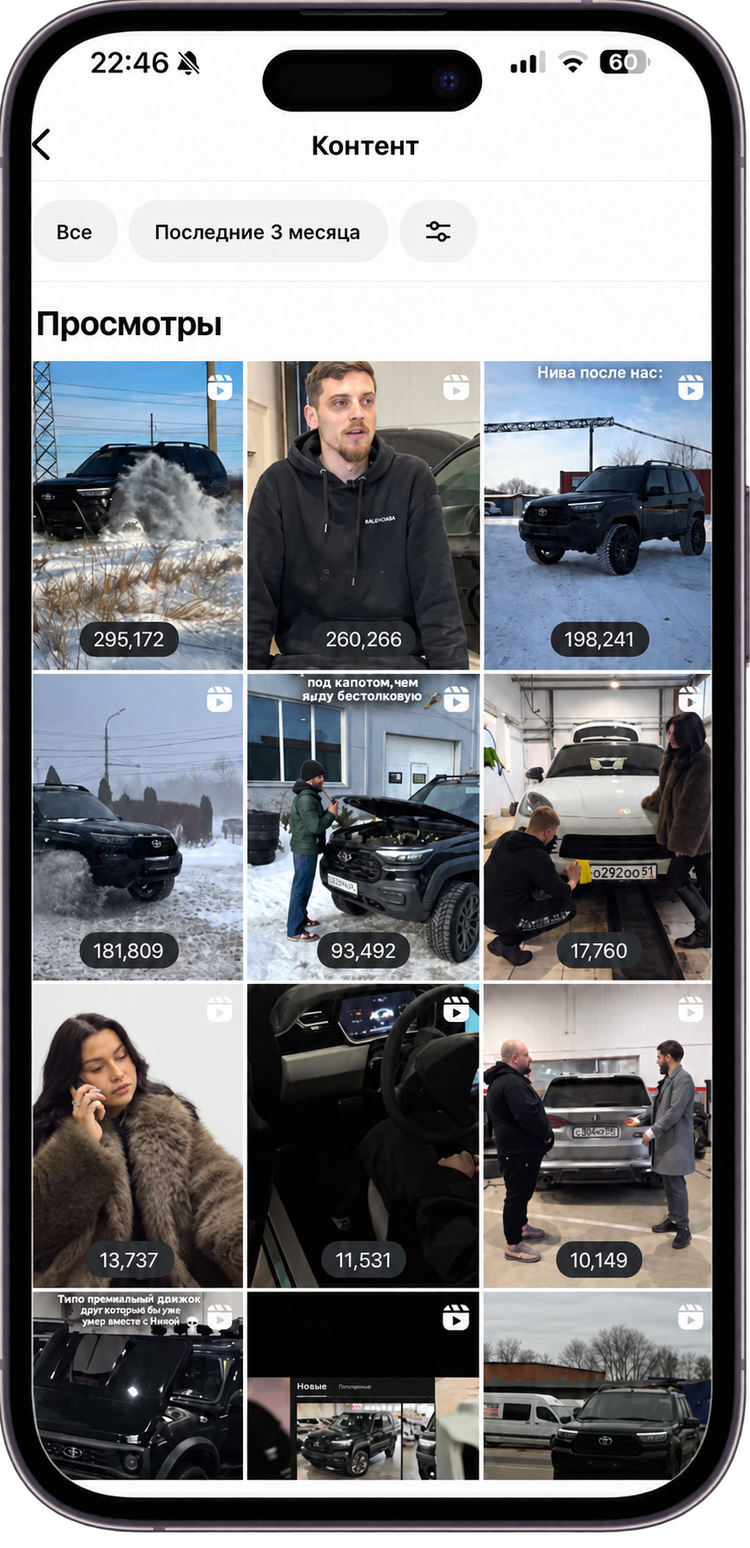
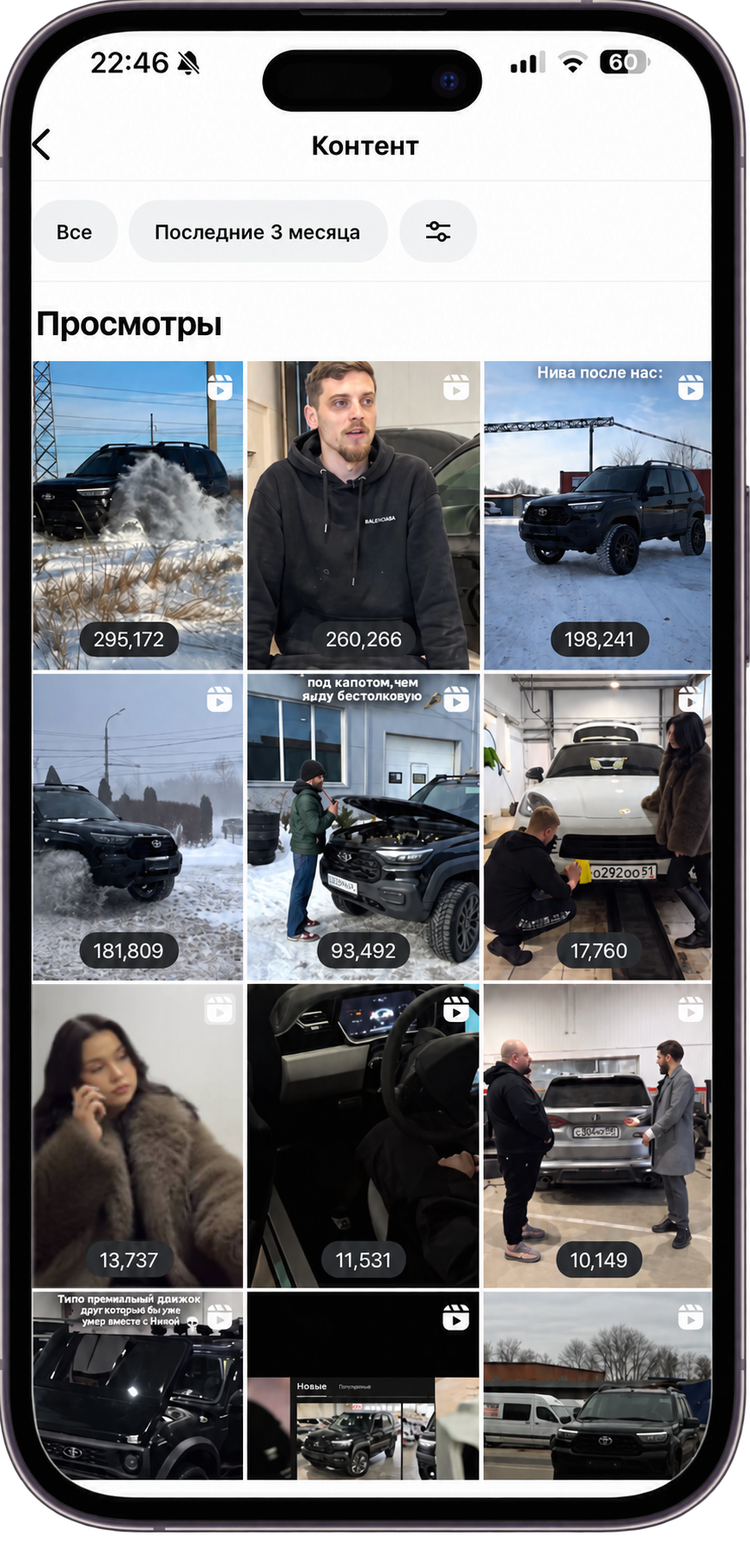
upd img

Changed region(s): [[0.0309, 0.6219, 0.3402, 0.8395]]

diff --git a/index.html b/index.html
@@ -54,7 +54,7 @@
     <figcaption><h4>Примеры Reels</h4><p>Просмотры роликов · последние 3 месяца</p></figcaption>
     <img src="assets/prepared/reels-approved.webp" width="873" height="1801" loading="lazy" decoding="async" alt="Примеры Reels автосервиса и счётчики просмотров"/>
   </figure>
-  <a class="stat-sheet media-card" data-stat="auto" href="assets/prepared/auto-views.webp" aria-haspopup="dialog">
+  <a class="stat-sheet media-card" data-stat="auto" href="assets/prepared/auto-views-screen.webp" aria-haspopup="dialog">
     <span class="stat-header">Результаты <span class="stat-open">Подробнее</span></span>
     <span class="result-metrics"><span><strong>1,06 млн</strong><small>просмотров<br/>4&nbsp;янв — 7&nbsp;фев</small></span><span><strong>+876</strong><small>подписчиков<br/>за месяц</small></span></span>
   </a>
@@ -69,7 +69,7 @@
 <p class="case-note">Показатели из предоставленного скриншота. Год в исходной статистике не указан.</p>
 <div class="case-detail"><p>Разработала концепцию и техническое задание: стиль, цветовую палитру и принципы подачи. Дизайнер реализовал оформление по моему ТЗ. Аккаунт стал целостным, визуал — поддерживать позиционирование бренда.</p></div>
 </div>
-<a class="stat-sheet media-card" data-stat="pub" href="assets/prepared/pub-views.webp" aria-haspopup="dialog"><span class="stat-header">Статистика аккаунта <span class="stat-open">Подробнее</span></span><span class="stat-period">18&nbsp;января — 16&nbsp;февраля</span><span class="stat-total"><span><small>Просмотры</small><strong>2 057 736</strong></span></span><span class="stat-row"><span>Охваченные аккаунты</span><b>1 202 124</b></span><span class="stat-footnote">Посмотреть статистику</span></a>
+<a class="stat-sheet media-card" data-stat="pub" href="assets/prepared/pub-views-screen.webp" aria-haspopup="dialog"><span class="stat-header">Статистика аккаунта <span class="stat-open">Подробнее</span></span><span class="stat-period">18&nbsp;января — 16&nbsp;февраля</span><span class="stat-total"><span><small>Просмотры</small><strong>2 057 736</strong></span></span><span class="stat-row"><span>Охваченные аккаунты</span><b>1 202 124</b></span><span class="stat-footnote">Посмотреть статистику</span></a>
 </article>
 </section>
 <section aria-labelledby="stories-title" class="stories section" id="stories">
@@ -130,22 +130,28 @@
 </section>
 <section aria-labelledby="visual-title" class="visual-section" id="visual">
   <div class="visual-intro section"><p class="eyebrow">Оформление аккаунтов</p><h2 id="visual-title">До и <em>после</em></h2></div>
-  <article aria-labelledby="vr-title" class="comparison-scene" data-comparison="scroll" id="compare-vr" style="--phone-ratio: 0.48467433">
-    <div class="comparison-sticky"><h3 id="vr-title">VR-клуб</h3><div class="compare-stage">
-      <figure class="compare-layer compare-before"><span class="phone-frame" style="--source-width: 379.44664032%; --source-left: -52.37154150%; --source-top: -2.68199234%"><img src="assets/originals/IMG_6335.JPG" width="1920" height="1080" loading="lazy" decoding="async" alt="VR-клуб: оформление до"/></span></figure>
-      <figure class="compare-layer compare-after"><span class="phone-frame" style="--source-width: 379.44664032%; --source-left: -227.86561265%; --source-top: -2.68199234%"><img src="assets/originals/IMG_6335.JPG" width="1920" height="1080" loading="lazy" decoding="async" alt="VR-клуб: оформление после"/></span></figure>
+  <article aria-labelledby="frau-title" class="comparison-scene" data-comparison="scroll" id="compare-frau" style="--phone-ratio: 0.48798799">
+    <div class="comparison-sticky"><div class="compare-heading"><h3 id="frau-title">Ресторан</h3><p class="compare-state" aria-hidden="true"><span class="state-before">До</span><span class="state-after">После</span></p></div><div class="compare-stage">
+      <figure class="compare-layer compare-before"><span class="phone-frame"><img src="assets/prepared/frau-before-phone-1100.webp" srcset="assets/prepared/frau-before-phone-500.webp 500w, assets/prepared/frau-before-phone-800.webp 800w, assets/prepared/frau-before-phone-1100.webp 1100w, assets/prepared/frau-before-phone-1300.webp 1300w" sizes="(max-width: 700px) calc(100vw - 44px), calc((100vh - 128px) * 0.49)" width="1300" height="2664" loading="lazy" decoding="async" alt="Ресторан: оформление до"/></span></figure>
+      <figure class="compare-layer compare-after"><span class="phone-frame"><img src="assets/prepared/frau-after-phone-1100.webp" srcset="assets/prepared/frau-after-phone-500.webp 500w, assets/prepared/frau-after-phone-800.webp 800w, assets/prepared/frau-after-phone-1100.webp 1100w, assets/prepared/frau-after-phone-1300.webp 1300w" sizes="(max-width: 700px) calc(100vw - 44px), calc((100vh - 128px) * 0.49)" width="1300" height="2664" loading="lazy" decoding="async" alt="Ресторан: оформление после"/></span></figure>
     </div></div>
   </article>
-  <article aria-labelledby="auto-title" class="comparison-scene" data-comparison="scroll" id="compare-auto" style="--phone-ratio: 0.48814229">
-    <div class="comparison-sticky"><h3 id="auto-title">Автосервис</h3><div class="compare-stage">
-      <figure class="compare-layer compare-before"><span class="phone-frame" style="--source-width: 388.66396761%; --source-left: -54.85829960%; --source-top: -2.07509881%"><img src="assets/originals/IMG_6336.JPG" width="1920" height="1080" loading="lazy" decoding="async" alt="Автосервис: оформление до"/></span></figure>
-      <figure class="compare-layer compare-after"><span class="phone-frame" style="--source-width: 388.66396761%; --source-left: -234.21052632%; --source-top: -2.07509881%"><img src="assets/originals/IMG_6336.JPG" width="1920" height="1080" loading="lazy" decoding="async" alt="Автосервис: оформление после"/></span></figure>
+  <article aria-labelledby="spa-title" class="comparison-scene" data-comparison="scroll" id="compare-spa" style="--phone-ratio: 0.48798799">
+    <div class="comparison-sticky"><div class="compare-heading"><h3 id="spa-title">SPA</h3><p class="compare-state" aria-hidden="true"><span class="state-before">До</span><span class="state-after">После</span></p></div><div class="compare-stage">
+      <figure class="compare-layer compare-before"><span class="phone-frame"><img src="assets/prepared/spa-before-phone-1100.webp" srcset="assets/prepared/spa-before-phone-500.webp 500w, assets/prepared/spa-before-phone-800.webp 800w, assets/prepared/spa-before-phone-1100.webp 1100w, assets/prepared/spa-before-phone-1300.webp 1300w" sizes="(max-width: 700px) calc(100vw - 44px), calc((100vh - 128px) * 0.49)" width="1300" height="2664" loading="lazy" decoding="async" alt="SPA: оформление до"/></span></figure>
+      <figure class="compare-layer compare-after"><span class="phone-frame"><img src="assets/prepared/spa-after-phone-1100.webp" srcset="assets/prepared/spa-after-phone-500.webp 500w, assets/prepared/spa-after-phone-800.webp 800w, assets/prepared/spa-after-phone-1100.webp 1100w, assets/prepared/spa-after-phone-1300.webp 1300w" sizes="(max-width: 700px) calc(100vw - 44px), calc((100vh - 128px) * 0.49)" width="1300" height="2664" loading="lazy" decoding="async" alt="SPA: оформление после"/></span></figure>
     </div></div>
   </article>
-  <article aria-labelledby="restaurant-title" class="comparison-scene" data-comparison="scroll" id="compare-restaurant" style="--phone-ratio: 0.48832685">
-    <div class="comparison-sticky"><h3 id="restaurant-title">Ресторан</h3><div class="compare-stage">
-      <figure class="compare-layer compare-before"><span class="phone-frame" style="--source-width: 382.47011952%; --source-left: -49.60159363%; --source-top: -3.50194553%"><img src="assets/originals/IMG_6337.JPG" width="1920" height="1080" loading="lazy" decoding="async" alt="Ресторан: оформление до"/></span></figure>
-      <figure class="compare-layer compare-after"><span class="phone-frame" style="--source-width: 382.47011952%; --source-left: -228.28685259%; --source-top: -3.50194553%"><img src="assets/originals/IMG_6337.JPG" width="1920" height="1080" loading="lazy" decoding="async" alt="Ресторан: оформление после"/></span></figure>
+  <article aria-labelledby="auto-title" class="comparison-scene" data-comparison="scroll" id="compare-auto" style="--phone-ratio: 0.48798799">
+    <div class="comparison-sticky"><div class="compare-heading"><h3 id="auto-title">Автосервис</h3><p class="compare-state" aria-hidden="true"><span class="state-before">До</span><span class="state-after">После</span></p></div><div class="compare-stage">
+      <figure class="compare-layer compare-before"><span class="phone-frame"><img src="assets/prepared/auto-before-phone-1100.webp" srcset="assets/prepared/auto-before-phone-500.webp 500w, assets/prepared/auto-before-phone-800.webp 800w, assets/prepared/auto-before-phone-1100.webp 1100w, assets/prepared/auto-before-phone-1300.webp 1300w" sizes="(max-width: 700px) calc(100vw - 44px), calc((100vh - 128px) * 0.49)" width="1300" height="2664" loading="lazy" decoding="async" alt="Автосервис: оформление до"/></span></figure>
+      <figure class="compare-layer compare-after"><span class="phone-frame"><img src="assets/prepared/auto-after-phone-1100.webp" srcset="assets/prepared/auto-after-phone-500.webp 500w, assets/prepared/auto-after-phone-800.webp 800w, assets/prepared/auto-after-phone-1100.webp 1100w, assets/prepared/auto-after-phone-1300.webp 1300w" sizes="(max-width: 700px) calc(100vw - 44px), calc((100vh - 128px) * 0.49)" width="1300" height="2664" loading="lazy" decoding="async" alt="Автосервис: оформление после"/></span></figure>
+    </div></div>
+  </article>
+  <article aria-labelledby="ribay-title" class="comparison-scene" data-comparison="scroll" id="compare-ribay" style="--phone-ratio: 0.48798799">
+    <div class="comparison-sticky"><div class="compare-heading"><h3 id="ribay-title">Ресторан</h3><p class="compare-state" aria-hidden="true"><span class="state-before">До</span><span class="state-after">После</span></p></div><div class="compare-stage">
+      <figure class="compare-layer compare-before"><span class="phone-frame"><img src="assets/prepared/ribay-before-phone-1100.webp" srcset="assets/prepared/ribay-before-phone-500.webp 500w, assets/prepared/ribay-before-phone-800.webp 800w, assets/prepared/ribay-before-phone-1100.webp 1100w, assets/prepared/ribay-before-phone-1300.webp 1300w" sizes="(max-width: 700px) calc(100vw - 44px), calc((100vh - 128px) * 0.49)" width="1300" height="2664" loading="lazy" decoding="async" alt="Ресторан: оформление до"/></span></figure>
+      <figure class="compare-layer compare-after"><span class="phone-frame"><img src="assets/prepared/ribay-after-phone-1100.webp" srcset="assets/prepared/ribay-after-phone-500.webp 500w, assets/prepared/ribay-after-phone-800.webp 800w, assets/prepared/ribay-after-phone-1100.webp 1100w, assets/prepared/ribay-after-phone-1300.webp 1300w" sizes="(max-width: 700px) calc(100vw - 44px), calc((100vh - 128px) * 0.49)" width="1300" height="2664" loading="lazy" decoding="async" alt="Ресторан: оформление после"/></span></figure>
     </div></div>
   </article>
 </section>
@@ -178,14 +184,14 @@
 <dialog class="stats-dialog" id="stats-auto" aria-labelledby="stats-auto-title">
   <div class="stats-shell"><header class="stats-toolbar"><div><p>Статистика</p><h2 id="stats-auto-title">Автосервис</h2></div><button type="button" class="stats-close" aria-label="Закрыть статистику"><svg viewBox="0 0 24 24" aria-hidden="true"><path d="m6 6 12 12M18 6 6 18" fill="none" stroke="currentColor" stroke-width="1.6" stroke-linecap="round"/></svg></button></header>
   <div class="stats-scroll" tabindex="-1" autofocus role="region" aria-labelledby="stats-auto-title">
-    <section class="evidence-piece"><h3>Просмотры</h3><p>4&nbsp;января — 7&nbsp;февраля</p><img src="assets/prepared/auto-views.webp" width="900" height="1820" loading="lazy" alt="Исходная статистика: просмотры, Автосервис"/></section>
+    <section class="evidence-piece"><h3>Просмотры</h3><p>4&nbsp;января — 7&nbsp;февраля</p><img src="assets/prepared/auto-views-screen.webp" srcset="assets/prepared/auto-views-screen-600.webp 600w, assets/prepared/auto-views-screen-800.webp 800w, assets/prepared/auto-views-screen.webp 1178w" sizes="(max-width: 700px) calc(100vw - 24px), 616px" width="1178" height="2296" loading="lazy" alt="Исходная статистика: просмотры, Автосервис"/></section>
     <section class="evidence-piece"><h3>Прирост подписчиков</h3><p>За месяц · 925 подписок − 49 отписок</p><img src="assets/prepared/auto-followers.webp" width="1940" height="696" loading="lazy" alt="Исходная статистика: прирост подписчиков, Автосервис"/></section>
   </div></div>
 </dialog>
 <dialog class="stats-dialog" id="stats-pub" aria-labelledby="stats-pub-title">
   <div class="stats-shell"><header class="stats-toolbar"><div><p>Статистика</p><h2 id="stats-pub-title">Паб-ресторан</h2></div><button type="button" class="stats-close" aria-label="Закрыть статистику"><svg viewBox="0 0 24 24" aria-hidden="true"><path d="m6 6 12 12M18 6 6 18" fill="none" stroke="currentColor" stroke-width="1.6" stroke-linecap="round"/></svg></button></header>
   <div class="stats-scroll" tabindex="-1" autofocus role="region" aria-labelledby="stats-pub-title">
-    <section class="evidence-piece"><h3>Просмотры и охват</h3><p>18&nbsp;января — 16&nbsp;февраля</p><img src="assets/prepared/pub-views.webp" width="980" height="2028" loading="lazy" alt="Исходная статистика: просмотры и охват, Паб-ресторан"/></section>
+    <section class="evidence-piece"><h3>Просмотры и охват</h3><p>18&nbsp;января — 16&nbsp;февраля</p><img src="assets/prepared/pub-views-screen.webp" srcset="assets/prepared/pub-views-screen-600.webp 600w, assets/prepared/pub-views-screen-800.webp 800w, assets/prepared/pub-views-screen.webp 1178w" sizes="(max-width: 700px) calc(100vw - 24px), 616px" width="1178" height="2296" loading="lazy" alt="Исходная статистика: просмотры и охват, Паб-ресторан"/></section>
   </div></div>
 </dialog>
 </body>

diff --git a/styles.css b/styles.css
@@ -272,10 +272,18 @@ button, a { -webkit-tap-highlight-color: transparent; }
 .visual-intro { padding-bottom: 24px; }
 .visual-intro .eyebrow { margin-bottom: 16px; color: var(--on-wine); }
 .comparison-sticky { margin: auto; padding: 24px var(--page-gutter); display: grid; grid-template-columns: 1fr 1fr; gap: 5%; align-items: center; }
-.comparison-sticky > h3 { font-size: clamp(32px, 4vw, 56px); }
+.compare-heading h3, .compare-state { font-size: clamp(32px, 4vw, 56px); }
+/* The word for the phone on screen: До, then После once the second phone has swapped in. */
+.compare-state { display: grid; margin-top: 8px; font-family: var(--serif); font-style: italic; line-height: 1.08; color: var(--on-wine); }
+.compare-state span { grid-area: 1 / 1; transition: opacity 200ms var(--ease-out); }
+.compare-state .state-after, .is-after .compare-state .state-before { opacity: 0; }
+.is-after .compare-state .state-after { opacity: 1; }
+/* Static display shows both phones one after another, so there is no single state. */
+.comparison-scene:not(.is-scroll-scene) .compare-state { display: none; }
 .compare-stage { display: grid; gap: 24px; width: 100%; }
-.phone-frame { display: block; position: relative; overflow: hidden; width: min(100%, calc((var(--reading-height, 100svh) - var(--story-top) - 100px) * var(--phone-ratio))); max-width: 500px; aspect-ratio: var(--phone-ratio); border-radius: 20% / 10%; margin-inline: auto; }
-.phone-frame img { position: absolute; width: var(--source-width); max-width: none; height: auto; left: var(--source-left); top: var(--source-top); }
+/* Each phone is a cut-out along its own contour (transparent exterior), shown whole. */
+.phone-frame { display: block; width: min(100%, calc((var(--reading-height, 100svh) - var(--story-top) - 100px) * var(--phone-ratio))); max-width: 500px; aspect-ratio: var(--phone-ratio); margin-inline: auto; }
+.phone-frame img { width: 100%; height: auto; }
 .viewport-probe { position: fixed; width: 0; height: 100svh; visibility: hidden; pointer-events: none; }
 .comparison-scene + .comparison-scene { border-top: 1px solid var(--wine-line); }
 .comparison-scene.is-scroll-scene { height: calc(var(--reading-height, 100svh) + 660px); }
@@ -390,7 +398,9 @@ button, a { -webkit-tap-highlight-color: transparent; }
 @media (max-width: 700px), (min-width: 701px) and (max-width: 1100px) and (orientation: portrait) {
   .story-pair { grid-template-columns: 1fr; }
   .comparison-sticky { display: flex; flex-direction: column; align-items: stretch; gap: 0; padding: 16px var(--page-gutter) 12px; }
-  .comparison-sticky > h3 { font-size: 28px; margin: 0 0 12px; }
+  .compare-heading { display: flex; justify-content: space-between; align-items: baseline; gap: 16px; margin: 0 0 12px; }
+  .compare-heading h3, .compare-state { font-size: 28px; }
+  .compare-state { margin-top: 0; }
   .is-scroll-scene .compare-stage { --stage-height: calc(var(--reading-height, 100svh) - var(--story-top) - 72px); --edge-fade: calc(24px * var(--edge-strength, 0)); flex-shrink: 0; }
   .is-scroll-scene .compare-layer { align-items: flex-start; }
 }
@@ -417,6 +427,7 @@ button, a { -webkit-tap-highlight-color: transparent; }
   .is-scroll-scene .comparison-sticky { position: static; height: auto; }
   .is-scroll-scene .compare-stage { height: auto; display: grid; overflow: visible; -webkit-mask-image: none; mask-image: none; }
   .is-scroll-scene .compare-layer { position: static; transform: none !important; }
+  .compare-state { display: none; }
 }
 
 /* Entrance motif after the Zayden hero reference: lines and letters rise from under

diff --git a/motion.js b/motion.js
@@ -38,19 +38,19 @@
   });
   // Smooth anchor scrolling only after load: a deep link (#contact) opens in place.
   addEventListener('load', () => requestAnimationFrame(() => root.classList.add('smooth-scroll')), {once: true});
-  let observer;
+  let observers = [];
   const seen = new WeakSet();
   function showImmediately(el) {
     seen.add(el);
     el.classList.remove('reveal-wait', 'motif-wait', 'motif-play');
-    observer?.unobserve(el);
+    observers.forEach(o => o.unobserve(el));
   }
   function setupReveals() {
-    observer?.disconnect();
+    observers.forEach(o => o.disconnect());
     targets.forEach(el => el.classList.remove('reveal-wait', 'reveal-in'));
     motifs.forEach(el => el.classList.remove('motif-wait', 'motif-play'));
     if (reduced.matches || !('IntersectionObserver' in window)) return;
-    observer = new IntersectionObserver(entries => {
+    const reveal = (entries, observer) => {
       for (const {target, isIntersecting} of entries) {
         if (!isIntersecting) continue;
         const motif = motifs.includes(target);
@@ -62,7 +62,12 @@
         seen.add(target);
         observer.unobserve(target);
       }
-    }, {rootMargin: '0px 0px 40px 0px', threshold: 0});
+    };
+    const observer = new IntersectionObserver(reveal, {rootMargin: '0px 0px 40px 0px', threshold: 0});
+    // The tall side-entering story cards (the COVID pair) start once their top passes 65% of the
+    // screen, about 40% of the card in view; from the screen edge the 1.1 s entrance was over unseen.
+    const lateObserver = new IntersectionObserver(reveal, {rootMargin: '0px 0px -35% 0px', threshold: 0});
+    observers = [observer, lateObserver];
     // Visible and previously read content never disappears on return.
     [...targets, ...motifs].forEach(el => {
       const rect = el.getBoundingClientRect();
@@ -71,7 +76,7 @@
         return;
       }
       el.classList.add(motifs.includes(el) ? 'motif-wait' : 'reveal-wait');
-      observer.observe(el);
+      (el.classList.contains('story-side') ? lateObserver : observer).observe(el);
     });
   }
   // Safari restores the scroll position after the check above (reload at the bottom of the page),
@@ -112,6 +117,7 @@
       const progress = linear * linear * (3 - 2 * linear);
       scene.before.style.transform = `translate3d(${-110 * progress}%,0,0)`;
       scene.after.style.transform = `translate3d(${110 * (1 - progress)}%,0,0)`;
+      scene.el.classList.toggle('is-after', progress >= .5);
       // A short edge fade avoids a hard cut, without masking the resting phone.
       scene.el.style.setProperty('--edge-strength', Math.min(1, progress * 8, (1 - progress) * 8));
       // Expose only the frame currently being read.
@@ -148,7 +154,7 @@
     scenes.forEach(scene => {
       scene.start = scene.el.getBoundingClientRect().top + scrollY - header;
       scene.distance = Math.max(1, scene.el.offsetHeight - scene.sticky.offsetHeight);
-      if (!scene.enabled) scene.el.style.removeProperty('--edge-strength');
+      if (!scene.enabled) { scene.el.style.removeProperty('--edge-strength'); scene.el.classList.remove('is-after'); }
       if (!scene.enabled) [scene.before, scene.after].forEach(layer => {
         layer.style.removeProperty('transform'); layer.inert = false; layer.removeAttribute('aria-hidden');
       });

diff --git a/PROJECT.md b/PROJECT.md
@@ -1,3 +1,20 @@
+## 14 октября 2026: HD-фото, целые телефоны в сравнениях, «До/После», поздний старт COVID
+
+Решения пользователя: улучшать только статистику просмотров (автосервис, паб) и ленты «До и после»; сторис, «Обо мне», портрет и контакт не трогать; прирост подписчиков оставлен прежним.
+
+**Обновление того же дня — новые сравнения.** По решению пользователя VR-клуб и прежний ресторан (shvili) убраны. Порядок: Ресторан (fraugretta) – SPA (ozonspatlt) – Автосервис (technik_com) – Ресторан (ribay__tlt). Источники — полноэкранные скриншоты с телефона 1178×2560 (через Telegram), сохранены как assets/originals/<frau|spa|auto|ribay>-<before|after>-screen.jpg. Рамки в скриншотах нет, поэтому она нарисована по меркам прежних телефонов со слайдов: угол корпуса 0,157 ширины, чёрная рамка 0,039, серый ободок, Dynamic Island 0,287 × 0,086 ширины экрана, три кнопки слева и одна справа; экран со скруглением, концентричным корпусу. Скриншоты внутри не менялись, нейросеть не применялась. Файлы assets/prepared/*-phone-{1300,1100,800,500}.webp, WebP q92: в 1300 скриншот 1:1 с оригиналом, меньшие — одно уменьшение Lanczos из него; подключены через srcset/sizes (iPhone с плотностью 3 берёт 1100, телефон с плотностью 2 — 800, компьютер с плотностью 1 — 500). Так же статистика: *-views-screen.webp (1178) + -800 и -600. Причина правки: браузер сам уменьшал один большой файл в 3–4 раза быстрым фильтром, мелкий текст мылился; теперь он почти не уменьшает. На телефоне пользователь смотрел опубликованную старую версию — эти правки ещё не отправлены в GitHub. Прежние телефоны из слайдов с HD-лентой (пункт ниже) удалены вместе с записями в манифесте; ниже — история.
+
+- Reels: у плитки 13,737 «поплыло» лицо. Фото плитки взято из assets/auto-result.png (Lanczos), плашка счётчика и иконка — из одобренной версии. Запись в reels-approved.json.
+- Статистика просмотров: пользователь прислал скриншоты с телефона (через Telegram, 1178×2560) — сохранены как assets/originals/auto-views-screen.jpg и pub-views-screen.jpg. На страницу — их вырезы auto-views-screen.webp и pub-views-screen.webp (1178×2296: без статус-бара и полосы «домой»), без нейросети. Стрелка «назад» и «(i)» в шапке закрашены белым. Промежуточные HD-версии (нейросеть) заменены и удалены.
+- «До и после»: срез был в углах — CSS-скругление 20%/10% (~100 px) круче собственного угла телефона, терялось 2–6 px рамки из 18; кнопки корпуса не попадали в кадр. Теперь каждый телефон — отдельный файл *-phone.webp: вырезан из оригинала по контуру (прозрачный фон, без тени слайда), Lanczos ×2, экран — HD-лента из assets/hd. Плитки, где нейросеть исказила надписи, лица или цифры счётчика, оставлены из оригинала (список — original_tiles в assets/prepared/manifest.json; например, «5 994» → «6 99А», «1 283» → «1 28Ɵ»). Остальные счётчики сверены. CSS-кадрирование и скругление удалены.
+- В строке заголовка сравнения справа (на компьютере — под заголовком) слово «До» или «После» по телефону на экране; меняется вместе с телефоном на середине прокрутки. В статичном показе и печати скрыто.
+- Серия «После COVID» начинает выезжать, когда верх карточки проходит 65% высоты экрана (≈40% карточки видно), а не до появления на экране.
+- .claude/launch.json — локальный сервер python -m http.server 8000.
+
+Проверка: по просьбе пользователя тесты не прогонялись — он проверяет на проде. Сделано: node --check, git diff --check; в браузере на 390×844 — все 23 картинки отдаются, новые файлы декодируются, слово «До/После» меняется синхронно с телефонами в трёх сценах, в статичном режиме скрыто; карточка COVID ждёт при верхе на 70% экрана и стартует на 60%. Real-ESRGAN ncnn-vulkan установлен в C:/Users/User/tools/realesrgan (на этой машине только Intel UHD 630 — медленно).
+
+Следующий шаг: пользователь смотрит локально и на проде. Старые сценарии tests/*.cjs ссылаются на прежние сцены (#compare-vr, #compare-restaurant) и в этом виде не годятся для приёмки.
+
 ## 14 октября 2026: декоративная шлифовка завершена
 
 По дополнительному запросу пользователя выполнены ранее отложенные C4, A4 (сравнения) и мелкая настройка отступов.

diff --git a/PLAN.md b/PLAN.md
@@ -1,3 +1,13 @@
+## 14 октября 2026: HD-фото и правки по скриншотам пользователя
+
+- [x] Reels: лицо в плитке 13,737 из исходника, счётчик и иконка чёткие.
+- [x] Статистика просмотров автосервиса и паба — из скриншотов с телефона (assets/originals/*-views-screen.jpg), без стрелки «назад» и «(i)».
+- [x] «До и после»: новые сцены Ресторан (Фрау) – SPA – Автосервис – Ресторан (Рибай) из скриншотов с телефона в нарисованной рамке по меркам прежних телефонов; VR-клуб и прежний ресторан убраны.
+- [x] Слово «До»/«После» в заголовке сравнения по текущему телефону.
+- [x] Серия «После COVID» стартует при ≈40% карточки в кадре.
+- [ ] Пользователь проверяет на проде (тесты по его решению не прогонялись). Commit/push — пользователь.
+- Не трогали по решению пользователя: сторис, «Обо мне», портрет, контакт, прирост подписчиков.
+
 ## 14 октября 2026: дополнительная шлифовка
 
 - [x] C4: меню точно по центру с независимыми боковыми колонками.
